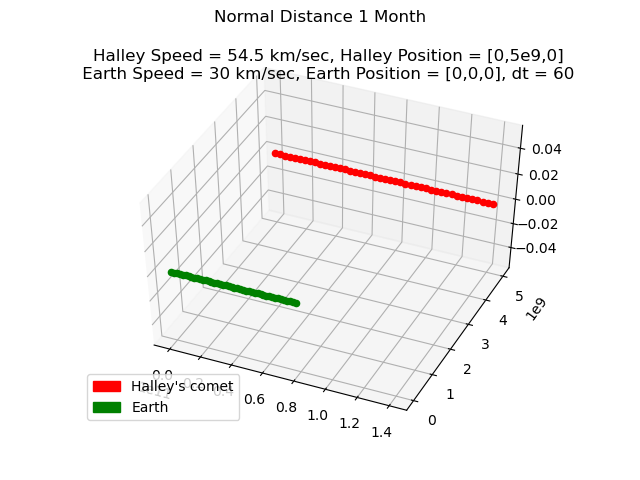
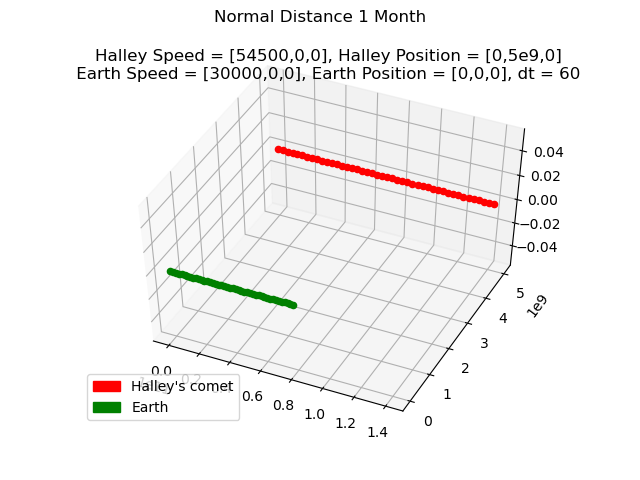
Speedv2

diff --git a/mars_distance.py b/mars_distance.py
@@ -258,7 +258,7 @@ for particle in particles:
 #ax[2].plot(x,a)
 #ax[2].set(xlabel='time [sec]', ylabel='acceleration [km/s^2]')
 #ax[2].grid()
-plt.title('Halley Speed = 54.5 km/sec, Halley Position = [0,5.4e7,0]\n Earth Speed = 30 km/sec, Earth Position = [0,0,0], dt = 60')
+plt.title('Halley Speed = [54500,0,0], Halley Position = [0,5.4e7,0]\n Earth Speed = [30000,0,0], Earth Position = [0,0,0], dt = 60')
 fig.suptitle('Mars Distance 1 Month')
 red_patch = mpatches.Patch(color='red', label='Halley\'s comet')
 green_patch = mpatches.Patch(color='green', label='Earth')

diff --git a/moon_distance.py b/moon_distance.py
@@ -260,7 +260,7 @@ for particle in particles:
 #ax[2].grid()
 
 
-plt.title('Halley Speed = 54.5 km/sec, Halley Position = [0,3.8e5,0]\n Earth Speed= 30 km/sec, Earth Position = [0,0,0], dt = 3.49 ')
+plt.title('Halley Speed = [54500,0,0], Halley Position = [0,3.8e5,0]\n Earth Speed= [30000,0,0], Earth Position = [0,0,0], dt = 3.49 ')
 fig.suptitle('Moon Distance 1 Month')
 red_patch = mpatches.Patch(color='red', label='Halley\'s comet')
 green_patch = mpatches.Patch(color='green', label='Earth')

diff --git a/normal_distance.py b/normal_distance.py
@@ -260,7 +260,7 @@ for particle in particles:
 #ax[2].grid()
 
 
-plt.title('Halley Speed = 54.5 km/sec, Halley Position = [0,5e9,0]\n Earth Speed = 30 km/sec, Earth Position = [0,0,0], dt = 60 ')
+plt.title('Halley Speed = [54500,0,0], Halley Position = [0,5e9,0]\n Earth Speed = [30000,0,0], Earth Position = [0,0,0], dt = 60 ')
 fig.suptitle('Normal Distance 1 Month')
 red_patch = mpatches.Patch(color='red', label='Halley\'s comet')
 green_patch = mpatches.Patch(color='green', label='Earth')
